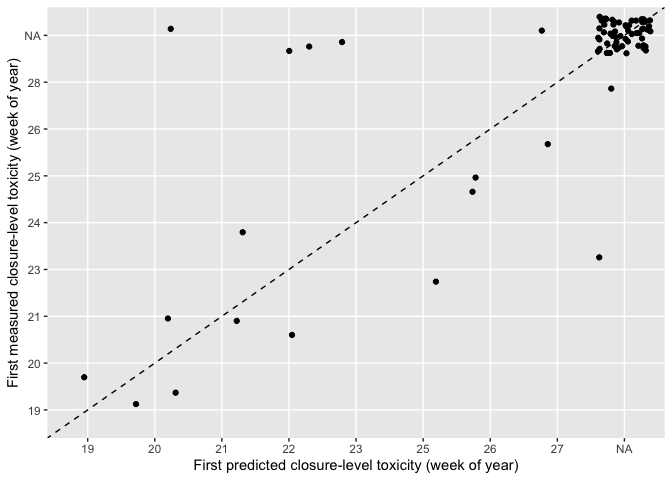
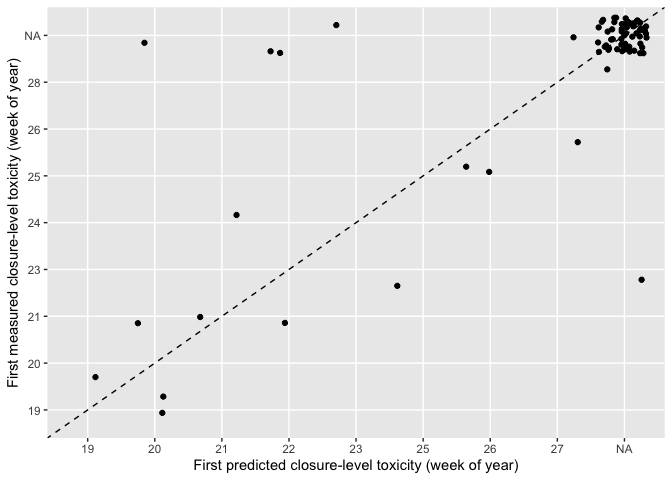
Adding 36 new PSP predictions on 2024-06-21

diff --git a/README.md b/README.md
@@ -72,7 +72,7 @@ predictions <- read_forecast(year = "2024") |>
 glimpse(predictions)
 ```
 
-    ## Rows: 149
+    ## Rows: 185
     ## Columns: 19
     ## $ version             <chr> "v0.3.0", "v0.3.0", "v0.3.0", "v0.3.0", "v0.3.0", …
     ## $ ensemble_n          <dbl> 10, 10, 10, 10, 10, 10, 10, 10, 10, 10, 10, 10, 10…
@@ -107,7 +107,7 @@ glimpse(predictions)
     ## # A tibble: 1 × 1
     ##   accuracy
     ##      <dbl>
-    ## 1    0.752
+    ## 1    0.741
 
 #### Closure-level (Class 3) Predictions
 
@@ -128,7 +128,7 @@ glimpse(predictions)
     ## # A tibble: 1 × 7
     ##      tp    fp    tn    fn precision sensitivity specificity
     ##   <int> <int> <int> <int>     <dbl>       <dbl>       <dbl>
-    ## 1     1     1   102     5       0.5       0.167       0.990
+    ## 1     2     4   132     5     0.333       0.286       0.971
 
 ## 2023 Season Results
 
@@ -272,4 +272,4 @@ predictions <- read_forecast(year = "2023")
 
 ### Last Updated
 
-    ## [1] "2024-06-14"
+    ## [1] "2024-06-21"
